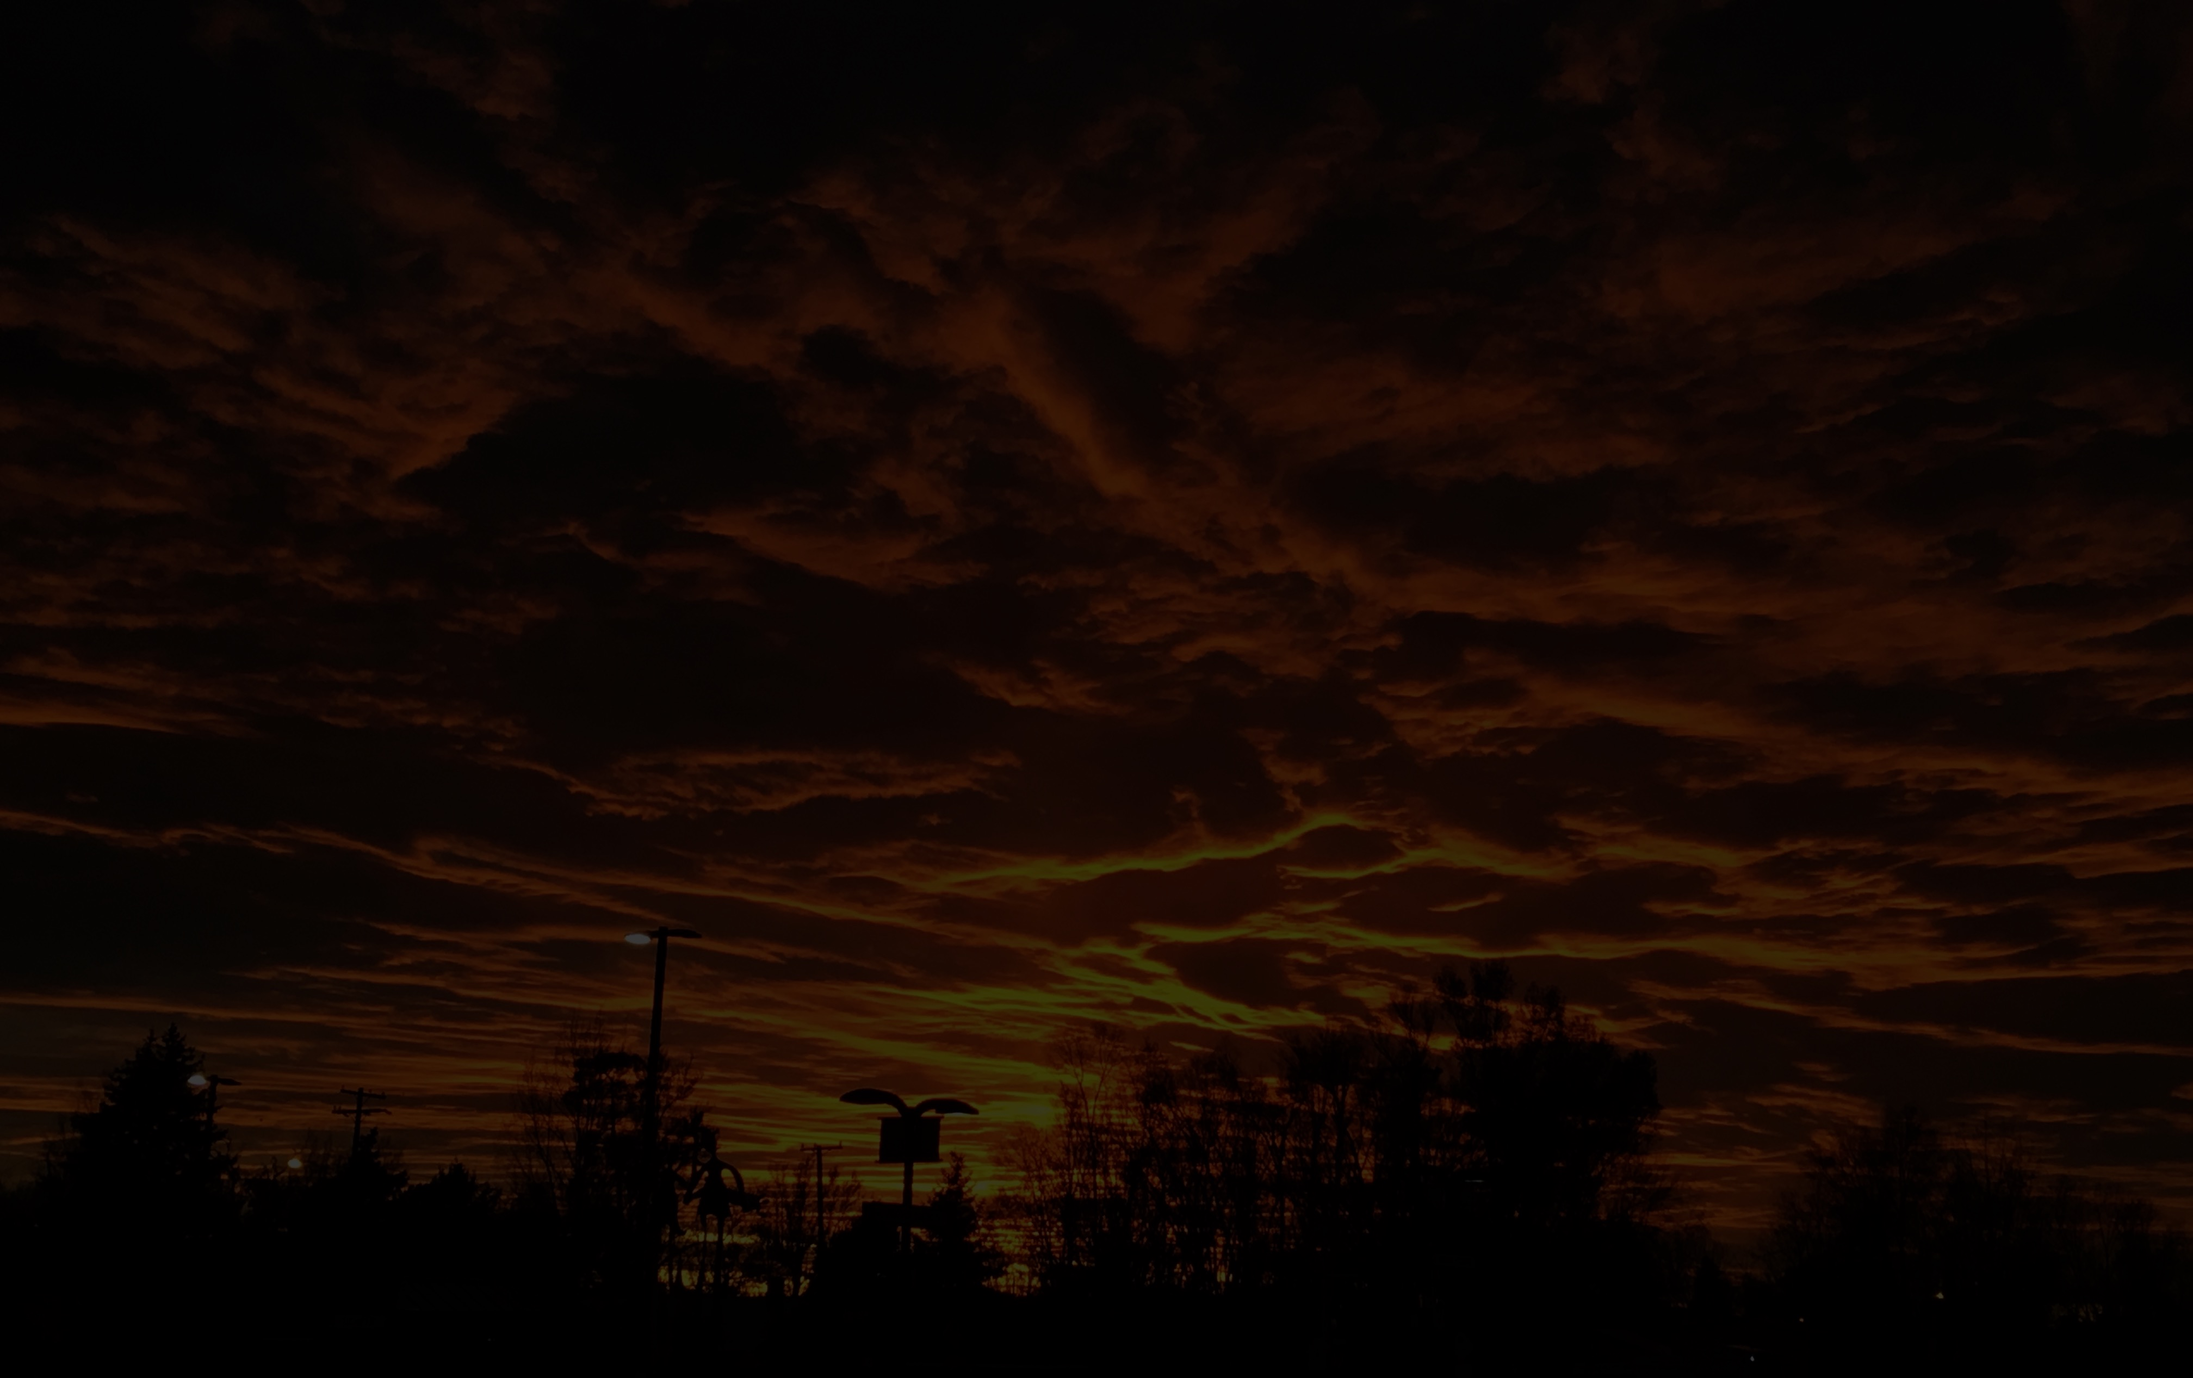
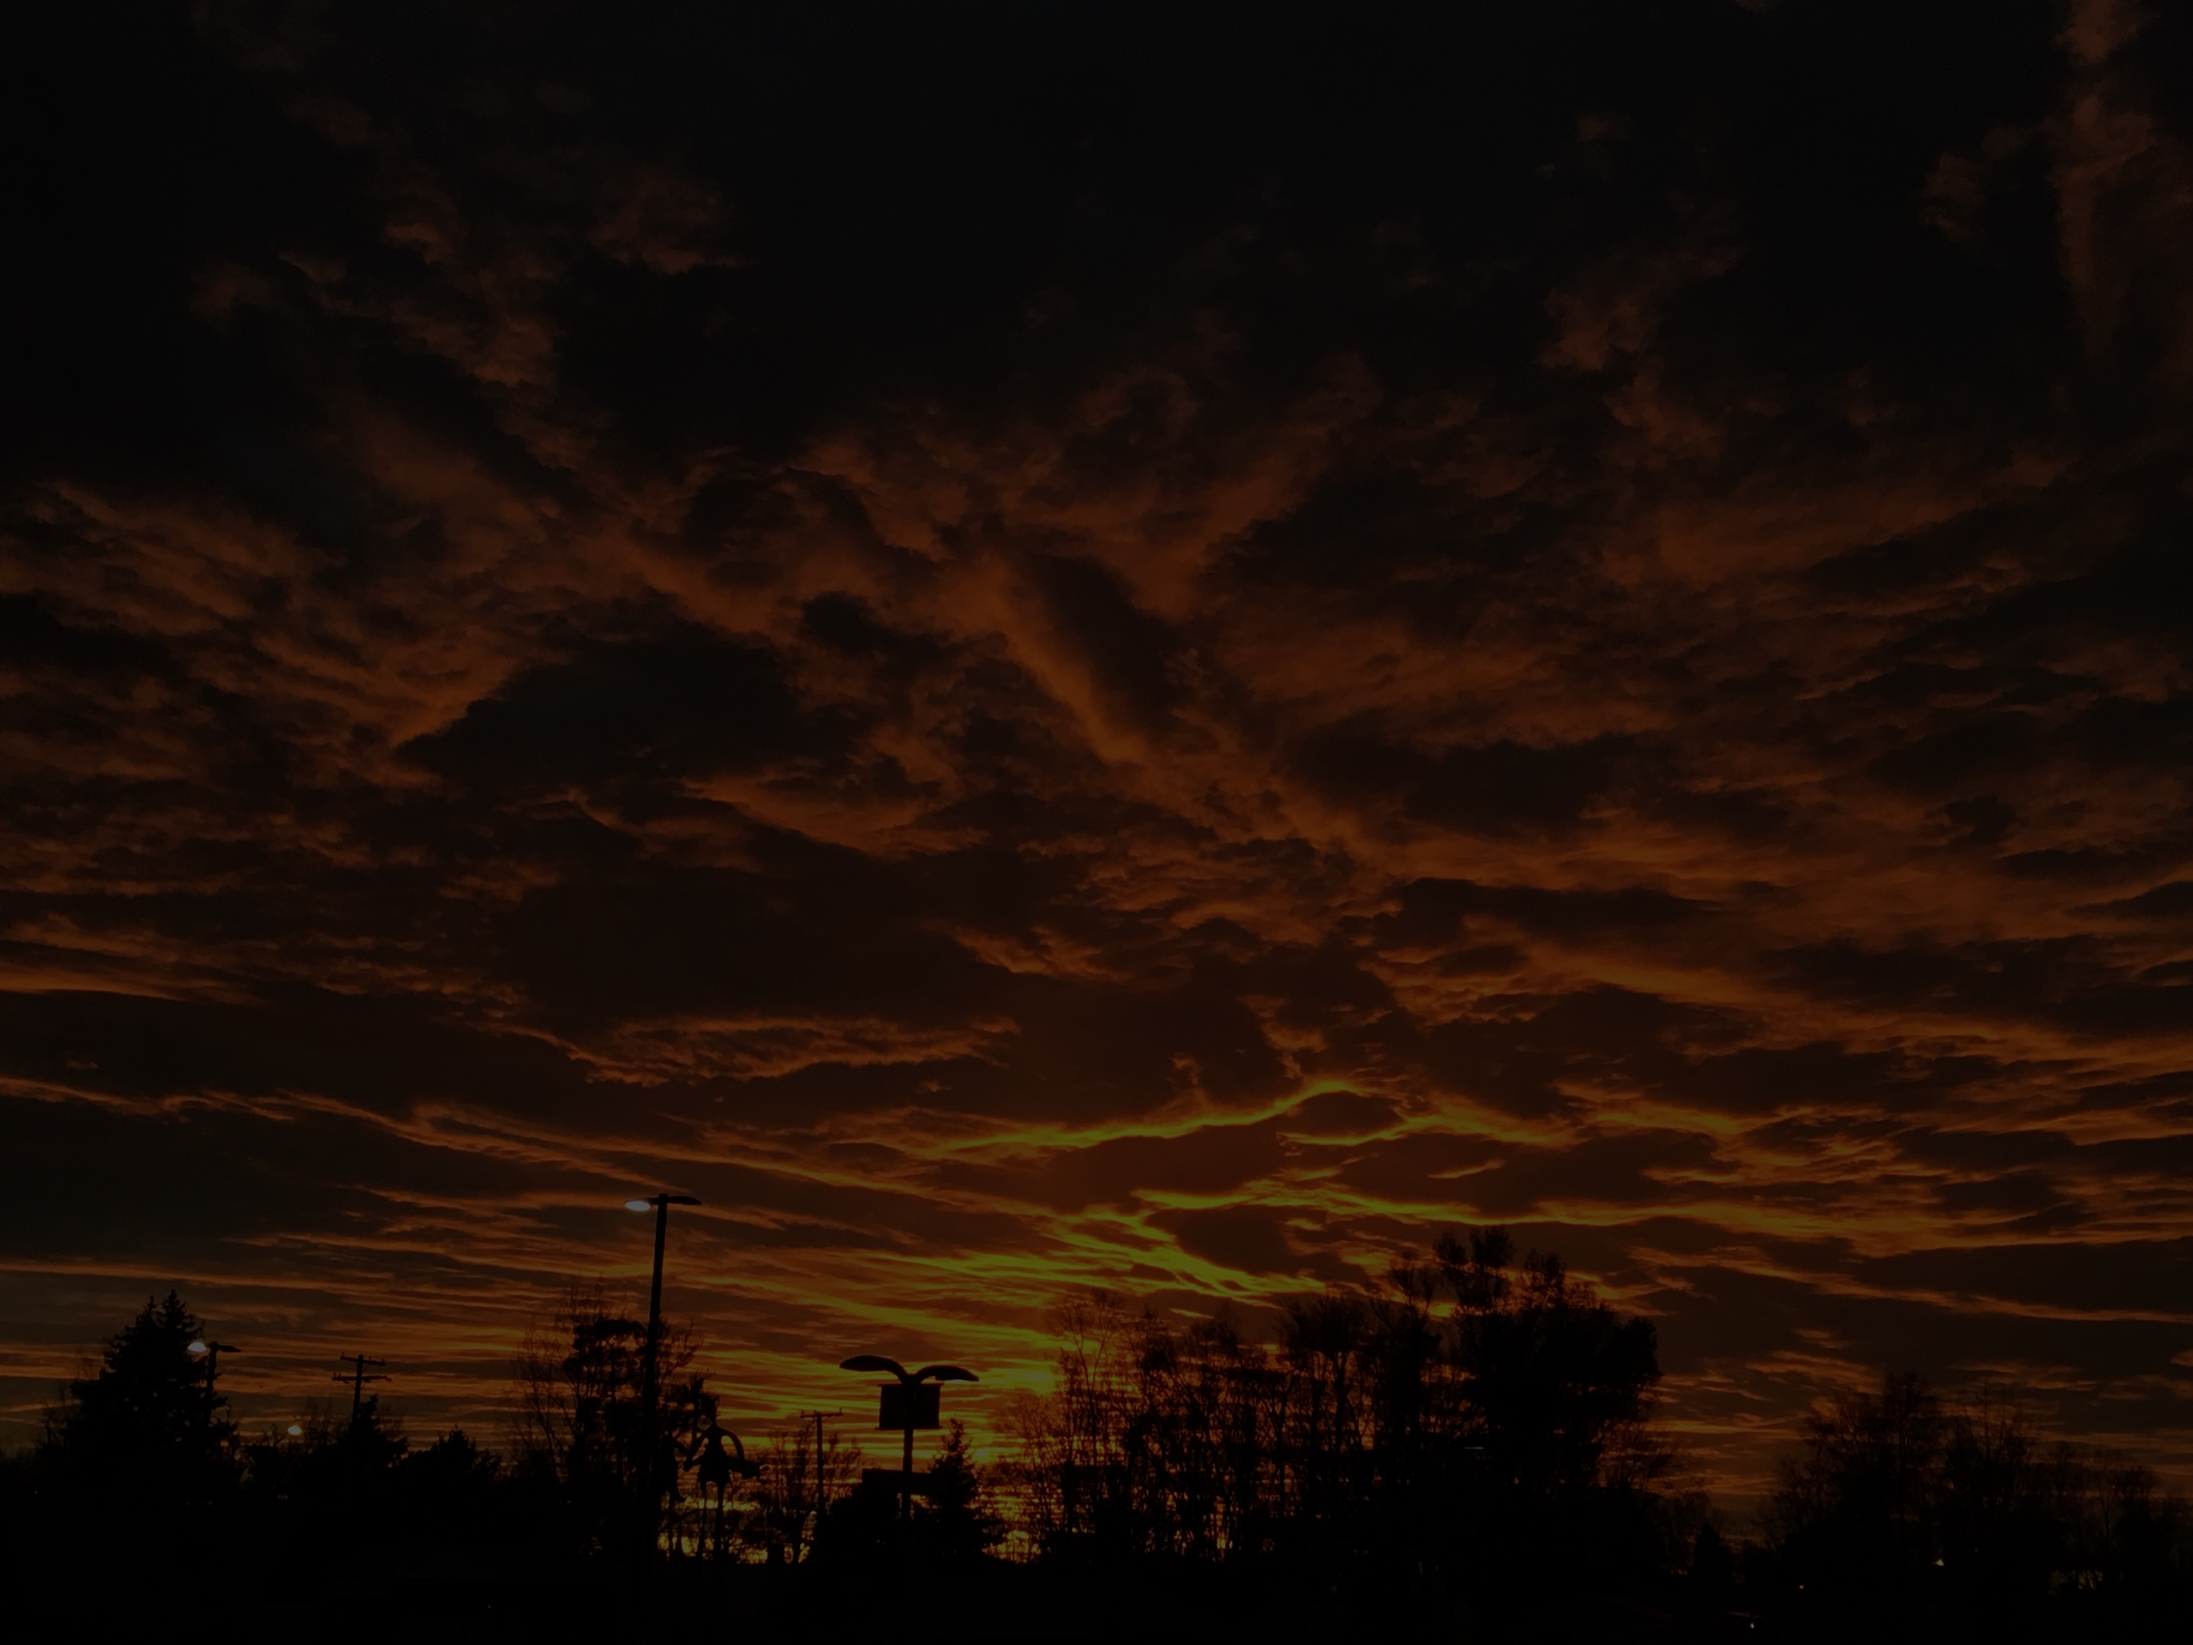
Decreased image resolution, updated projects

diff --git a/app/portfolio/canyon-sports.template.html b/app/portfolio/canyon-sports.template.html
@@ -5,11 +5,13 @@
     <p>While working at a local ski shop, I helped to update an old site, rewriting the code form ASP.NET to PHP.  Working with a designer, we updated all pages, created new navigation, and added new pages including a ski and weather report using a datafeed from SkiUtah.com.</p>
     <br><br>
     <h6>TECHNOLOGIES:</h6><br>
+    PHP, SQL, HTML, CSS
 
 
     <div class="project-nav">
-      <a class="button site" href="https://cs.timberry.io" target="_blank">VIEW SITE</a>
-      <a class="button repo" href="#" target="_blank">VIEW REPO</a>
+      ... LIVE SITE COMING SOON.
+      <!-- <a class="button site" href="https://cs.timberry.io" target="_blank">VIEW SITE</a>
+      <a class="button repo" href="#" target="_blank">VIEW REPO</a> -->
     </div>
   </div>
 </div>

diff --git a/app/app.routes.js b/app/app.routes.js
@@ -50,17 +50,17 @@ angular.module('tbDevPortfolio')
             controllerAs: 'portfolioCtrl'
           }
         }
-      })
-      .state('template', {
-        url: '/template',
-        views: {
-          'portfolio': {
-            templateUrl: './portfolio/template.template.html',
-            controller: 'PortfolioCtrl',
-            controllerAs: 'portfolioCtrl'
-          }
-        }
       });
+      // .state('template', {
+      //   url: '/template',
+      //   views: {
+      //     'portfolio': {
+      //       templateUrl: './portfolio/template.template.html',
+      //       controller: 'PortfolioCtrl',
+      //       controllerAs: 'portfolioCtrl'
+      //     }
+      //   }
+      // });
   }
 
 })();

diff --git a/app/portfolio/wasatch-sports.template.html b/app/portfolio/wasatch-sports.template.html
@@ -5,6 +5,7 @@
     <p>Wasatch Sports is an app based on the need to bring a local ski rental facility into the modern web world.  Many small businesses still function with pen and paper.  When data for say, your customers is needed, it meant pulling open a file cabinet and manually going through forms.  This site is an example of bringing the entire rental process to the web, from reservation to fulfullment.  The data can be accessed much more easily, empowering a small business to reach new heights.</p>
     <br><br>
     <h6>TECHNOLOGIES:</h6><br>
+    AngularJS, Mongoose, Express.js, Node.js, Socket.io, and Moment.js
 
 
     <div class="project-nav">

diff --git a/app/assets/styles/main.css b/app/assets/styles/main.css
@@ -44,6 +44,7 @@ header {
 }
 .logo {
   float: left;
+	font-size: 1.2em;
 }
 
 nav {
@@ -111,7 +112,7 @@ section > div > h2 {
 #home {
 	display: flex;
 	height: 100vh;
-	background-image: url(/assets/images/yosemite.jpg);
+	background-image: url(/assets/images/yosemite_sm.jpg);
 	background-size: cover;
 	background-position: top center;
 	background-attachment: fixed;
@@ -169,7 +170,7 @@ section > div > h2 {
 
 
 #skills {
-	background-image: url(/assets/images/sunset.jpg);
+	background-image: url(/assets/images/sunset_sm.jpg);
 	background-size: cover;
 	background-position: top center;
 	background-attachment: fixed;

diff --git a/app/portfolio/weather-app.template.html b/app/portfolio/weather-app.template.html
@@ -5,6 +5,7 @@
     <p>This was the first Angular app that I built.  Focusing just on front-end development, WeatherView uses an API to grab the current weather conditions, based on the current location of the user, or for a location they request. Using Angular directives, I was able to do a side by side comparison for multiple locations.</p>
     <br><br>
     <h6>TECHNOLOGIES:</h6><br>
+    AngularJS
 
 
     <div class="project-nav">

diff --git a/app/app.controller.js b/app/app.controller.js
@@ -10,7 +10,7 @@ angular.module('tbDevPortfolio')
     var appCtrl = this;
 
     appCtrl.counter = 0;
-    var folio = ['waitr','wasatch-sports','canyon-sports','weather-app','template']
+    var folio = ['waitr','wasatch-sports','canyon-sports','weather-app']
 
     appCtrl.back = back;
     appCtrl.forward = forward;
